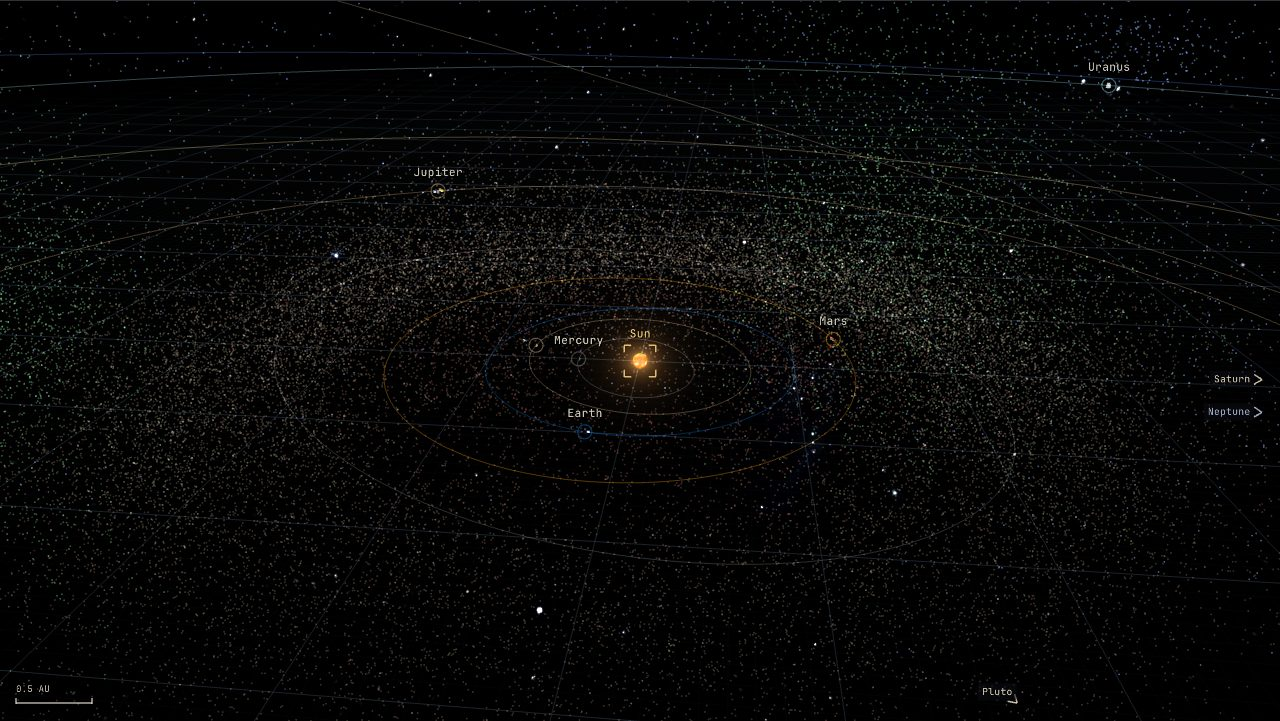
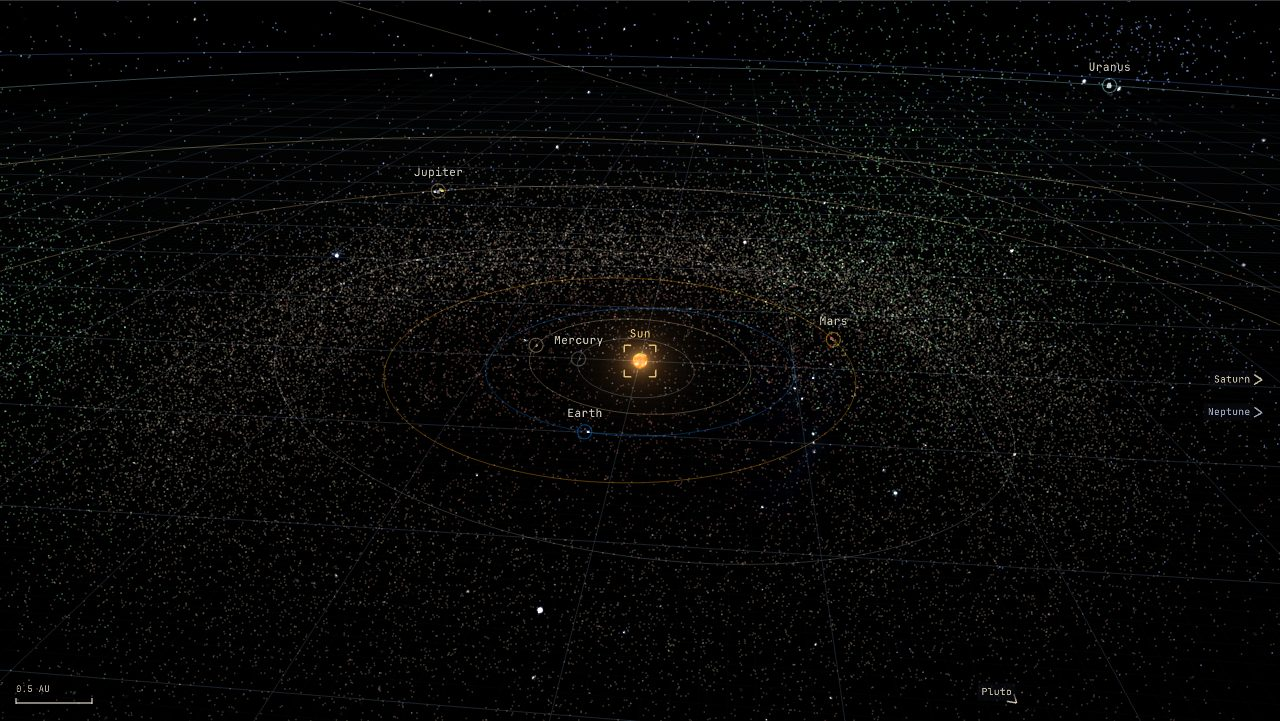
Add the view from Earth to About as a second figure
about-sky.jpg shows Jupiter and its labelled Galilean moons on 2026-12-01
through a 9-arcmin field, rendered by site_images.mjs from the link Learn
offers (SPEC A150, T127).

Changed region(s): [[0.8438, 0.061, 0.875, 0.1221]]

diff --git a/SPEC.md b/SPEC.md
@@ -502,6 +502,7 @@ A146|Phase from Earth: `BodyInspection.illuminated_fraction` is (1 + cos i) / 2 
 A147|Shared telescope views: `?from=earth[&fov=DEG]` opens the view from Earth once the linked body is ready (the sky command takes a positive value as the field in arcseconds, clamped to 72 arcsec–70 deg; 40 deg without a usable `fov`; any other `from` is ignored). With `at` and `body` it shows a chosen night through a chosen field, e.g. `?body=jupiter&at=2026-12-01T22:00&from=earth&fov=0.05`; the linked commands wait for the deep link's own select-and-frame task to finish, since commands report at once and Frame system would leave the view. Copy link adds `from` and `fov` while the view is on; all three leave the address once applied. Trails are hidden from Earth, where months of moon paths pile into a band across the planet|link tests (field from degrees, clamps, wide default, only earth); journey: a link opens the view at 0.05 deg on its date, drops `from`, and Copy link writes `from=earth&fov=0.05`; screenshot of Jupiter on 2026-12-01 (103 deg from the Sun, 38.4 arcsec, 99% lit)
 A148|Look from Earth: Learn lists four dated telescope links (Venus as a crescent on 2026-10-05, the waxing gibbous Moon on 2026-06-25, Jupiter on 2026-12-01, Saturn's rings on 2027-01-15), each checked by screenshot against its caption. The view from Earth's near clip plane is half the nearest body surface in the field (`orbit_camera_sky_near`), never inside Earth: a fixed plane at Earth's surface left 24-bit depth resolving only about 10 million km at Saturn, so the rings z-fought the planet|`orbit_camera_sky_near` tests (an in-field body sets it, an off-field one does not, the floor holds); Learn journey (four links, the Moon link opens the view on its date); screenshot of Saturn on 2027-01-15 without z-fighting
 A149|Moons named through the telescope: in the view from Earth the selected body's moons of known radius are labelled however small their disc, once they stand RENDER_LABEL_MIN_SEPARATION_PIXELS clear of the planet (`render_sky_moon_wants_label`); the usual decluttering and occlusion apply. Jupiter on 2026-12-01 at a 9-arcmin field shows Ganymede, Io, Europa and Callisto strung along a line; Saturn shows Titan and Iapetus|`render_sky_moon_wants_label` tests (clear of the planet, too close, unknown radius); screenshots of Jupiter and Saturn
+A150|About's Rendering section opens with a second figure, `about-sky.jpg`: the view from Earth of Jupiter and its labelled Galilean moons on 2026-12-01 through a 9-arcmin field, rendered by `tools/site_images.mjs` from the same link Learn offers, and linking to it|`make docs-check`; image review
 A110|Look: the sky backdrop uses a squared contrast curve (no JPEG grain between stars); the Sun's disc centre runs toward white with an orange limb and a second, wide glare layer; bodies with air get limb darkening and a warm dusk band at the terminator (long air paths scatter blue away); lit colours roll off through a soft shoulder above 0.8 instead of clipping; the reference grid is about half as bright|`make test-native-shaders`, screenshots
 
 Result: all scenes hold 60 fps in desktop Chrome; on the Pixel 7 profile at 4x CPU throttle the main scene, Jupiter family and Saturn family hold 60 fps (the Saturn family fell to 44 fps with full-detail guides; 10 px chords, half detail for faint guides and skipping the spreading test for distant orbits restored it; A135 later spread every guide with its clearance computed once per orbit, measured level with main at 52–60 fps on the 300-body Saturn family).
@@ -636,6 +637,7 @@ T123|x|lit fraction from Earth|A146
 T124|x|shared telescope views|A147
 T125|x|Look from Earth links; adaptive sky near plane|A148
 T126|x|moon labels through the telescope|A149
+T127|x|About sky figure|A150
 
 Audit remediation verification, 2026-10-06: delivered through PRs #20, #21, #22, #24, #25 (round 1), #26 (main CI/analytics blocker found by round 2) and #27 (round 2), each rebase-merged after the required Build/CodeQL checks passed and every review thread was resolved. Production Pages served 81eb308 after #26 with CSP, Astro generator marker, generated sitemap and no robots.txt verified on the live site. Locally, round 2 passed `make clean && make test-sanitize`, `make && make test test-build test-cli test-validators`, catalog/command/epoch/Jovian/small-body checks, a fresh raylib WASM build with native/WASM replay of every example, `npm ci`/`npm audit`/37 Node tests/`astro check`/build, route checks, and 17/17 sandboxed Chrome journeys for both analytics-free and `PUBLIC_GA_ID` builds. The second audit's Medium findings (main CI red, experiment Earth-centre start, debug-info WASM, duplicate SPEC IDs, PR-only workflow docs, invisible catalog download) are closed. Remaining Low/Info items are recorded rather than changed: Jonathan later chose Renovate over Dependabot (A63) and asked for every non-main branch to be deleted; CI stays Linux-only and the browser lane stays on Ubuntu 22.04 per R13; browser specs are type-checked by Playwright, not `astro check` (adding `@types/node` was deferred); GA consent policy remains V17; the pre-existing desktop atlas Vesta/Uranus label overlap, Saturn's illustrative ring tilt and literal Jupiter–Neptune masses (V6 scopes GM-derived masses to Sun–Mars) are unchanged.
 

diff --git a/AGENTS.md b/AGENTS.md
@@ -116,7 +116,7 @@ solar-system-simulator/
 - Web controls call the C command boundary in `src/main.c`. Keep numeric command IDs aligned with `runtimeCommands` in `docs/src/lib/simulator.ts` (`tools/check_catalog.mjs` fails on any mismatch); the C scene populates the body selector.
 - Parent-relative trail and vector controls are renderer-only. Use synchronized parent samples and subtract in double precision. Vector glyph lengths are illustrative, even when their directions come from SI state.
 - Build, CLI, sanitizer and validator entrypoints are `make test-build test-cli test-sanitize test-validators`. On macOS, `make test-native-shaders` renders Earth offscreen through the real GLSL 330 shaders and maps (the CI macOS job runs it with `make test`); use it after shader edits because a native window cannot always be opened from an agent sandbox. Cross-check the C/TypeScript core catalog with `node tools/check_catalog.mjs` after `make headless`.
-- Learn's lesson stills (`docs/public/lessons/*.jpg`) are rendered by `node tools/lesson_previews.mjs <served base URL>`, and About's figure (`docs/public/about-view.jpg`) by `tools/site_images.mjs`; regenerate them when the instrument's look changes.
+- Learn's lesson stills (`docs/public/lessons/*.jpg`) are rendered by `node tools/lesson_previews.mjs <served base URL>`, and About's figures (`docs/public/about-view.jpg`, `about-sky.jpg`) by `tools/site_images.mjs`; regenerate them when the instrument's look changes.
 - Link previews and icons: `docs/public/social-preview.png` (og:image, 1200×630) and the icon set are rendered by `node tools/site_images.mjs <served base URL>` from a deterministic simulator frame and the hand-written `docs/public/favicon.svg` (static shapes only; `make docs-check` rejects scripts, handlers or links in it). Regenerate them when the instrument's look changes, then rebuild the site before `make docs-check` (it reads `docs/dist/`). The capture steps to exactly 345,600 simulated seconds using the clock's `data-seconds`.
 - Orbit guides (SPEC A107) are the osculating two-body ellipse about each body's parent, recomputed from SI state every frame in `draw_orbit_guides` (math in `render_orbit_guide*`, `scene_style.*`). Keep them presentation only, keep the vertex on the body and the illustrative spreading identical to `renderer_body_position`, and re-measure the Saturn family on the throttled phone after touching their detail budget. Default trails are parent-relative.
 - Moon maps (A109) are USGS public-domain mosaics regenerated by `python3 tools/moon_maps.py [--refresh]` (sources cached in ignored `build/moon-maps/`). A mapped body needs an IAU rotation model; `test_tidally_locked_maps_face_their_parent` checks orientation against the real sky.
